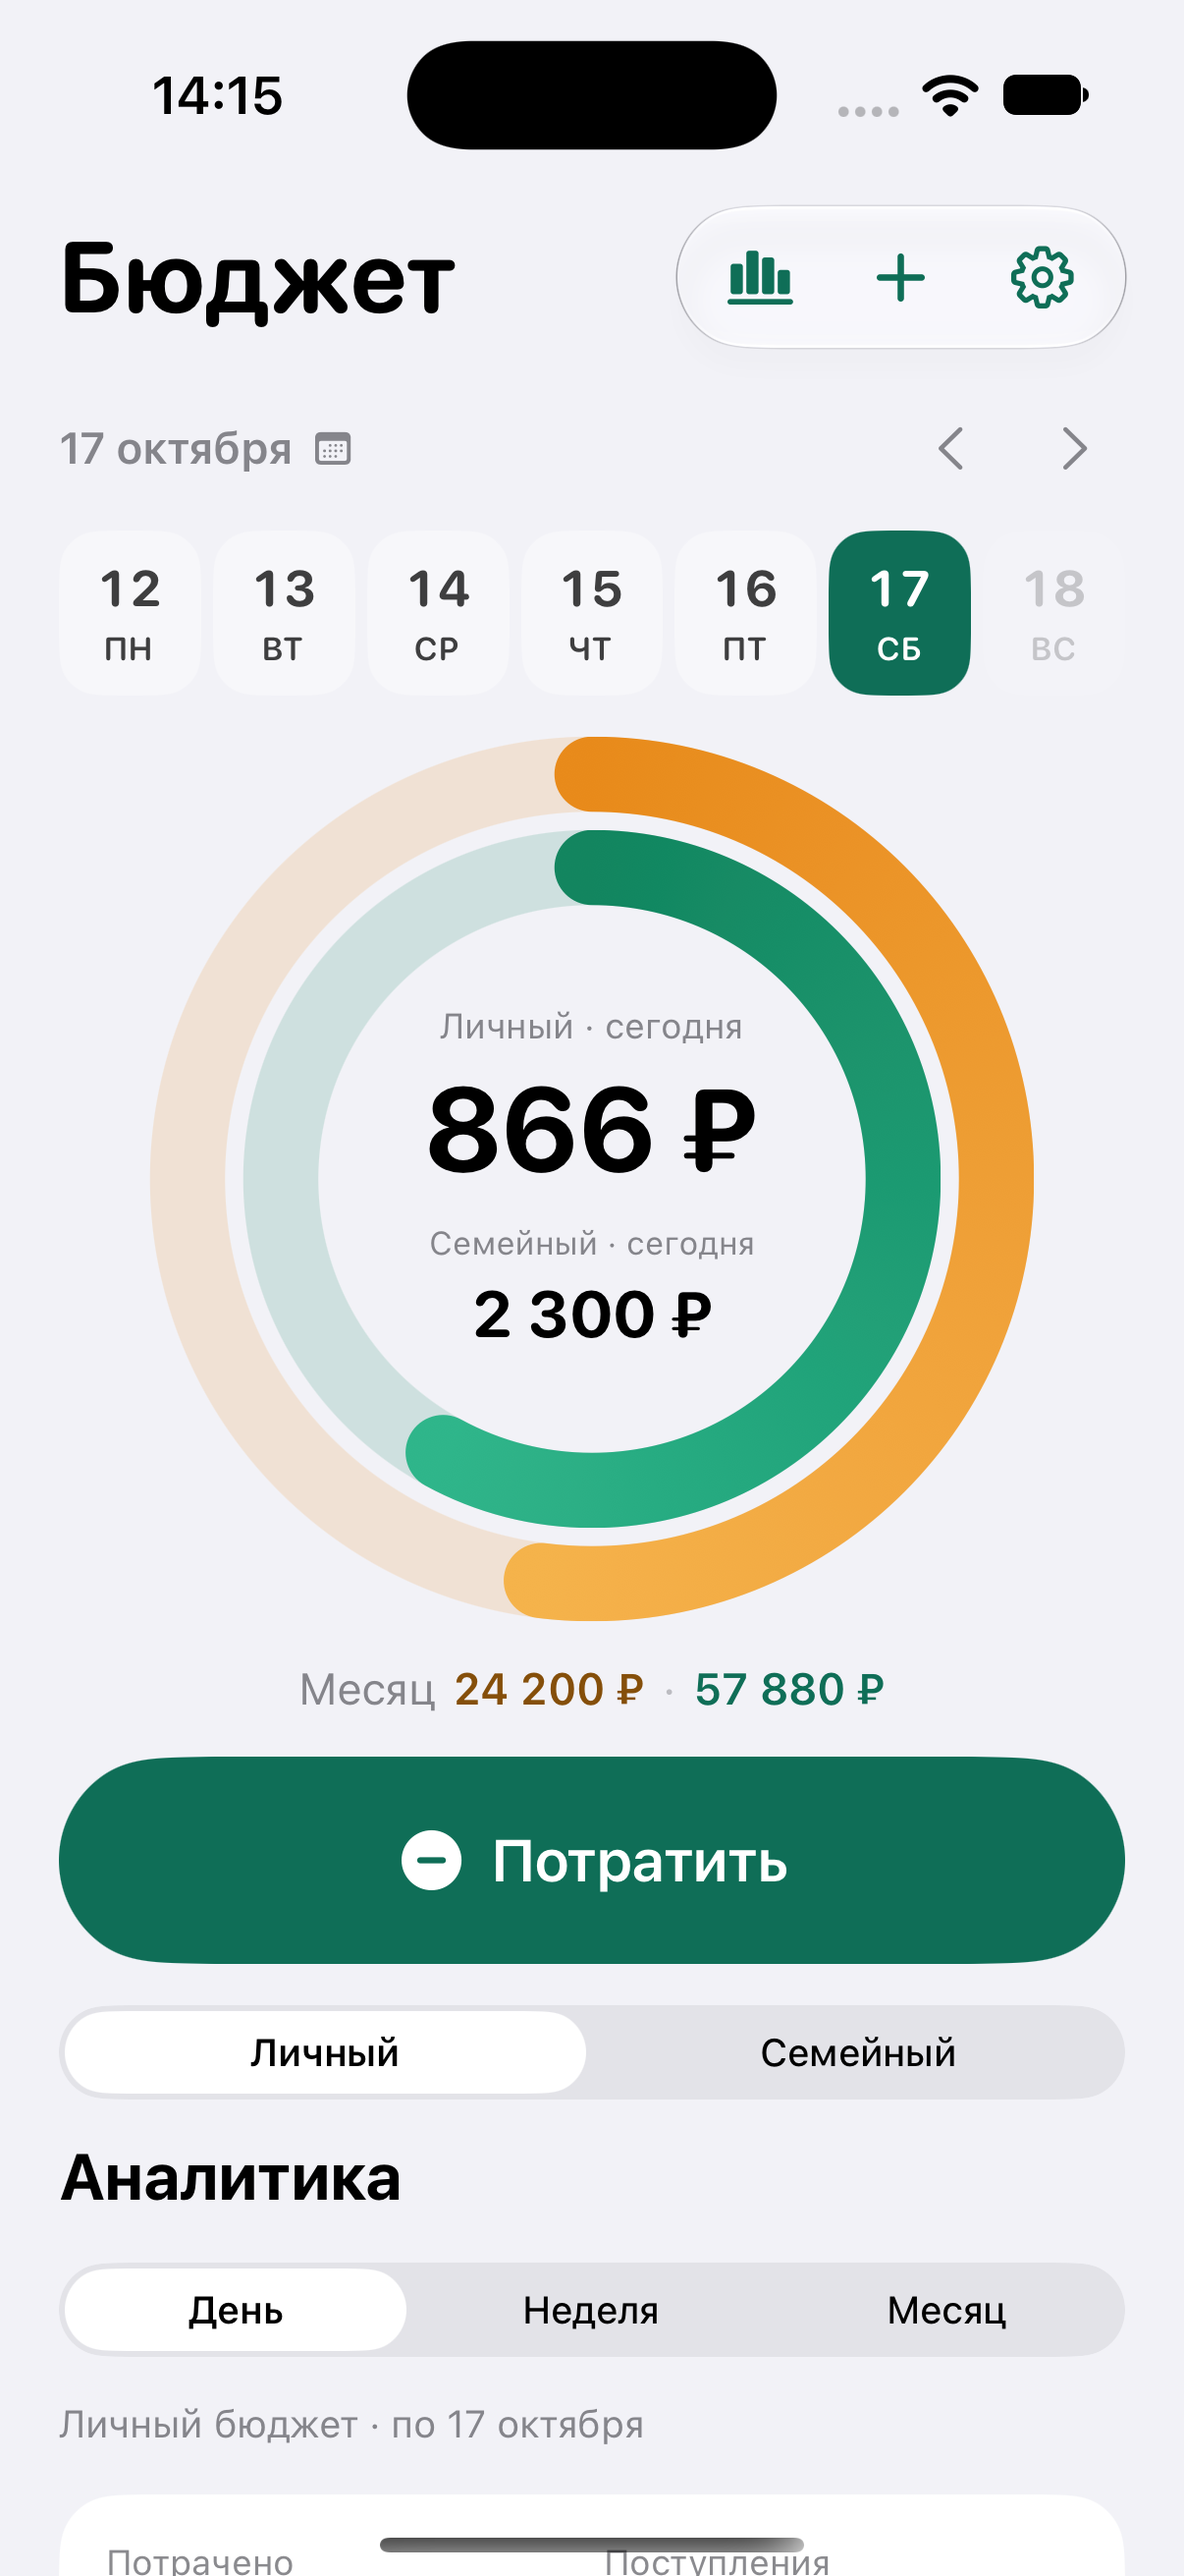
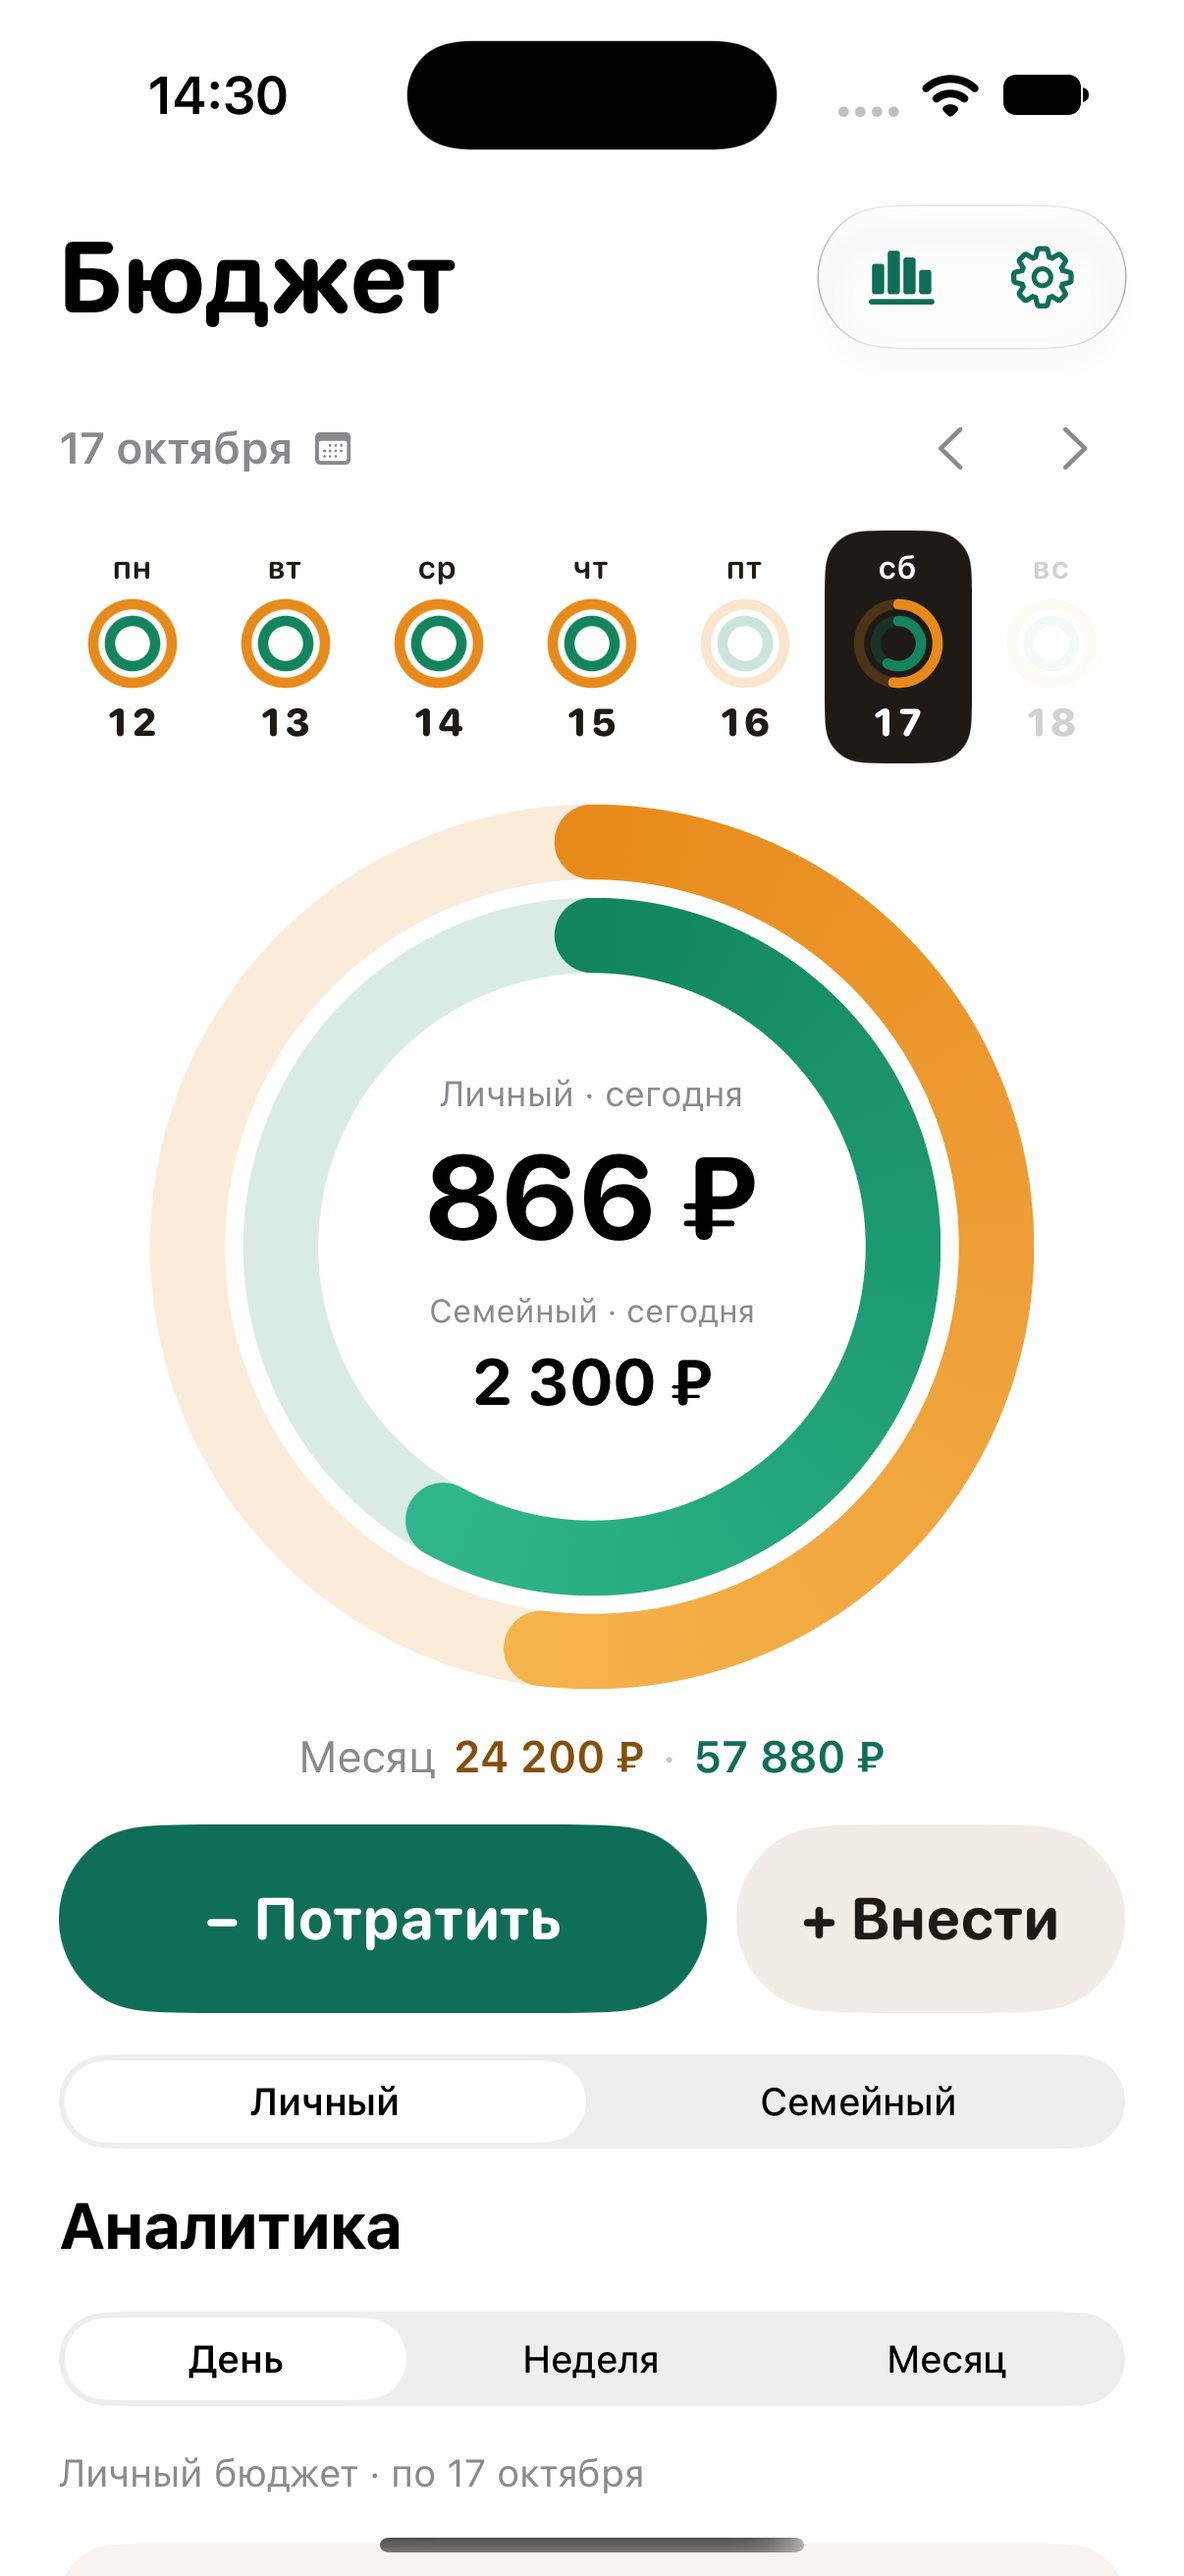
Adopt the focused light look: white ground, ring calendar, Spend and Add buttons
Each day in the week strip shows its own personal and family rings.

diff --git a/App/Sources/BudgetRootView.swift b/App/Sources/BudgetRootView.swift
@@ -34,7 +34,9 @@ struct BudgetRootView: View {
             ScrollViewReader { proxy in
             ScrollView {
                 VStack(alignment: .leading, spacing: 14) {
-                    BudgetWeekCalendar(selection: $selectedDay, today: session.referenceDate, calendar: calendar)
+                    BudgetWeekCalendar(selection: $selectedDay, today: session.referenceDate, calendar: calendar) { day in
+                        (personal.overview(on: day).result?.dayRingFraction, family.overview(on: day).result?.dayRingFraction)
+                    }
                     BudgetRingsCard(personal: personalDay.result, family: familyDay.result, isToday: selectedDay == nil) { scope in
                         selectedScope = scope; sheet = .limits
                     }
@@ -70,10 +72,10 @@ struct BudgetRootView: View {
                         .font(.footnote).foregroundStyle(.secondary).padding(.horizontal, 4)
                 }.padding(.horizontal, 20).padding(.top, 4).padding(.bottom, 40)
             }
-            .background(Color(uiColor: .systemGroupedBackground))
+            .background(Color.folkiBackground)
             .safeAreaInset(edge: .top, spacing: 0) {
                 header.padding(.horizontal, 20).padding(.vertical, 8)
-                    .background(Color(uiColor: .systemGroupedBackground))
+                    .background(Color.folkiBackground)
             }
             .navigationTitle("Бюджет")
             .navigationBarTitleDisplayMode(.inline)
@@ -120,13 +122,6 @@ struct BudgetRootView: View {
             Button { analyticsJump = UUID() } label: {
                 Image(systemName: "chart.bar.xaxis").frame(width: 44, height: 44)
             }.accessibilityLabel("Аналитика")
-            Menu {
-                Button("Поступление в личный", systemImage: "person") { openEntry(.personal, kind: .income) }
-                Button("Поступление в семейный", systemImage: "person.2") { openEntry(.family, kind: .income) }
-                Button("Взнос из личного в семейный", systemImage: "arrow.right.circle") { openContribution() }
-            } label: {
-                Image(systemName: "plus").frame(width: 44, height: 44)
-            }.accessibilityLabel("Внести деньги")
             Button { sheet = .settings } label: {
                 Image(systemName: "gearshape").frame(width: 44, height: 44)
             }.accessibilityLabel("Настройки")
@@ -137,14 +132,26 @@ struct BudgetRootView: View {
     }
 
     private var spendButton: some View {
-        Button {
-            selectedDay = nil
-            sheet = personal.result == nil && family.result == nil ? .setup : .spend
-        } label: {
-            Label("Потратить", systemImage: "minus.circle.fill")
-                .font(.title3.weight(.semibold)).frame(maxWidth: .infinity).padding(.vertical, 8)
+        HStack(spacing: 10) {
+            Button {
+                selectedDay = nil
+                sheet = personal.result == nil && family.result == nil ? .setup : .spend
+            } label: {
+                Text("− Потратить").frame(maxWidth: .infinity).frame(height: 64)
+                    .background(Color.folkiAccent, in: Capsule()).foregroundStyle(.white)
+            }
+            .frame(maxWidth: .infinity).layoutPriority(2)
+            Menu {
+                Button("Поступление в личный", systemImage: "person") { openEntry(.personal, kind: .income) }
+                Button("Поступление в семейный", systemImage: "person.2") { openEntry(.family, kind: .income) }
+                Button("Взнос из личного в семейный", systemImage: "arrow.right.circle") { openContribution() }
+            } label: {
+                Text("+ Внести").frame(width: 132, height: 64)
+                    .background(Color.folkiSurface, in: Capsule()).foregroundStyle(Color.folkiInk)
+            }
+            .menuStyle(.button).buttonStyle(.plain).fixedSize()
         }
-        .buttonStyle(.borderedProminent).controlSize(.large).tint(Color.folkiAccent)
+        .font(.system(.title3, design: .rounded, weight: .bold)).buttonStyle(.plain)
     }
 
     private func openEntry(_ scope: BudgetScope, kind: TransactionKind) {
@@ -294,6 +301,6 @@ struct LedgerRow: View {
 extension View {
     func budgetCard() -> some View {
         padding(16).frame(maxWidth: .infinity, alignment: .leading)
-            .background(Color(uiColor: .secondarySystemGroupedBackground), in: RoundedRectangle(cornerRadius: 20))
+            .background(Color.folkiSurface.opacity(0.6), in: RoundedRectangle(cornerRadius: 20))
     }
 }

diff --git a/App/Sources/BudgetWeekCalendar.swift b/App/Sources/BudgetWeekCalendar.swift
@@ -5,6 +5,8 @@ struct BudgetWeekCalendar: View {
     @Binding var selection: Date?
     let today: Date
     let calendar: Calendar
+    /// Personal and family day-ring fractions for a past or current day; nil where no plan exists.
+    var rings: (Date) -> (Double?, Double?) = { _ in (nil, nil) }
     @State private var showingMonth = false
     @Environment(\.accessibilityReduceMotion) private var reduceMotion
     @Environment(\.dynamicTypeSize) private var dynamicTypeSize
@@ -39,7 +41,7 @@ struct BudgetWeekCalendar: View {
                     }
                 }
             }.foregroundStyle(.secondary)
-            HStack(spacing: 4) {
+            HStack(spacing: 2) {
                 ForEach(0..<7, id: \.self) { offset in
                     if let date = calendar.date(byAdding: .day, value: offset, to: weekStart) {
                         day(date)
@@ -95,20 +97,21 @@ struct BudgetWeekCalendar: View {
     private func day(_ date: Date) -> some View {
         let isSelected = calendar.isDate(date, inSameDayAs: selected)
         let isFuture = calendar.startOfDay(for: date) > calendar.startOfDay(for: today)
-        let weekday = ["ВС", "ПН", "ВТ", "СР", "ЧТ", "ПТ", "СБ"][calendar.component(.weekday, from: date) - 1]
+        let weekday = ["вс", "пн", "вт", "ср", "чт", "пт", "сб"][calendar.component(.weekday, from: date) - 1]
+        let fractions = isFuture ? (nil, nil) : rings(date)
         return Button { select(date) } label: {
             VStack(spacing: 4) {
-                Text("\(calendar.component(.day, from: date))")
-                    .font(.system(.body, design: .rounded, weight: .bold)).monospacedDigit()
                 Text(weekday).font(.system(.caption2, design: .rounded, weight: .semibold))
+                MiniRings(personal: fractions.0, family: fractions.1).frame(width: 30, height: 30)
+                Text("\(calendar.component(.day, from: date))")
+                    .font(.system(.footnote, design: .rounded, weight: .heavy)).monospacedDigit()
             }
             .lineLimit(1).minimumScaleFactor(0.7)
-            .padding(.vertical, 8)
-            .frame(maxWidth: .infinity).frame(minHeight: 56)
-            .foregroundStyle(isSelected ? Color.white : .primary)
-            .background(isSelected ? Color.folkiAccent : Color(uiColor: .secondarySystemGroupedBackground).opacity(0.5),
-                        in: RoundedRectangle(cornerRadius: 14, style: .continuous))
-            .opacity(isFuture ? 0.38 : (isSelected ? 1 : 0.75))
+            .padding(.vertical, 6)
+            .frame(maxWidth: .infinity)
+            .foregroundStyle(isSelected ? Color.folkiBackground : Color.folkiInk)
+            .background(isSelected ? Color.folkiInk : Color.clear, in: RoundedRectangle(cornerRadius: 14, style: .continuous))
+            .opacity(isFuture ? 0.4 : 1)
         }
         .buttonStyle(.plain).frame(maxWidth: .infinity).disabled(isFuture)
         .accessibilityLabel(date.formatted(.dateTime.weekday(.wide).day().month(.wide).year()))
@@ -123,5 +126,25 @@ struct BudgetWeekCalendar: View {
     private func moveWeek(_ direction: Int) {
         guard let target = calendar.date(byAdding: .day, value: direction * 7, to: selected) else { return }
         select(min(target, today))
+    }
+}
+
+/// A day's two rings at calendar size: personal outside, family inside.
+private struct MiniRings: View {
+    let personal: Double?
+    let family: Double?
+    var body: some View {
+        ZStack {
+            ring(personal, palette: .personal).padding(0)
+            ring(family, palette: .family).padding(5.5)
+        }
+    }
+    private func ring(_ fraction: Double?, palette: RingPalette) -> some View {
+        ZStack {
+            Circle().stroke(palette.start.opacity(0.22), lineWidth: 3.5)
+            Circle().trim(from: 0, to: max(0, min(1, fraction ?? 0)))
+                .stroke(palette.start, style: StrokeStyle(lineWidth: 3.5, lineCap: .round))
+                .rotationEffect(.degrees(-90))
+        }.padding(1.75)
     }
 }

diff --git a/App/Sources/Theme.swift b/App/Sources/Theme.swift
@@ -8,6 +8,11 @@ extension Color {
     static let folkiAccent = adaptive(light: (0.06, 0.43, 0.34), dark: (0.36, 0.79, 0.65))
 
     static func budget(_ scope: BudgetScope) -> Color { RingPalette.palette(for: scope).text }
+    /// Main screen ground: white in light mode, black in dark.
+    static let folkiBackground = Color(uiColor: .systemBackground)
+    /// Cards and quiet buttons on that ground: warm light gray / dark gray.
+    static let folkiSurface = adaptive(light: (0.945, 0.925, 0.898), dark: (0.11, 0.11, 0.118))
+    static let folkiInk = adaptive(light: (0.118, 0.102, 0.086), dark: (0.96, 0.93, 0.89))
 
     static func adaptive(light: (Double, Double, Double), dark: (Double, Double, Double)) -> Color {
         Color(uiColor: UIColor { traits in
